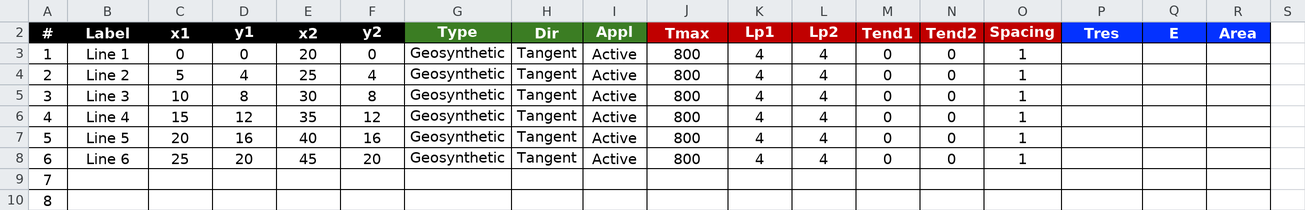
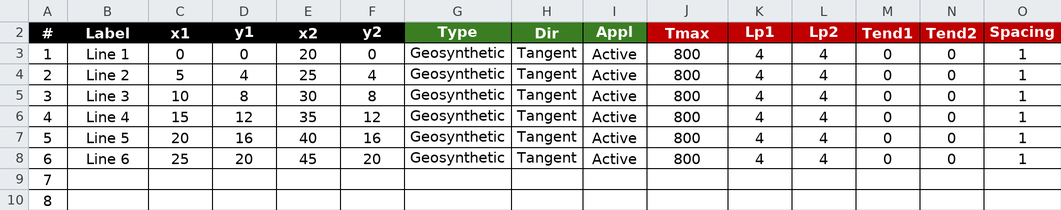
studio: the usage toggles govern the list view too, and LEM renders stop at LEM columns
The line editors' toggle bar filtered only the table view; the list
view's grouped form now hides non-enabled usage fields (whole groups
when every field hides), applied on lazy build as well. LEM-8/9's
reinforce and piles sheet renders crop before the FEM-only columns.

Claude-Session: https://claude.ai/code/session_01XjjT2aBxw8gY7EFdpoUcpj

diff --git a/studio/editors.py b/studio/editors.py
@@ -3962,6 +3962,7 @@ class _LineListView(QWidget):
         if tip:
             edit.setToolTip(tip)
         h.addWidget(edit, 1)
+        self._cells[key] = cell
         return cell
 
     @staticmethod
@@ -3978,6 +3979,8 @@ class _LineListView(QWidget):
         scroll.setWidgetResizable(True)
         body = QWidget()
         v = QVBoxLayout(body)
+        self._cells = {}
+        self._group_boxes = []
         for title, group_rows in self._groups:
             g = QGroupBox(title)
             gv = QVBoxLayout(g)
@@ -3990,6 +3993,7 @@ class _LineListView(QWidget):
                 else:
                     for k in keys:
                         gv.addWidget(self._cell(k))
+            self._group_boxes.append((g, [k for row in group_rows for k in row]))
             v.addWidget(g)
         v.addStretch(1)
         scroll.setWidget(body)
@@ -4000,6 +4004,17 @@ class _LineListView(QWidget):
         if driver is not None and hasattr(driver, "textChanged"):
             driver.textChanged.connect(lambda *_: self._relabel_dynamic())
         return scroll
+
+    def apply_usage_filter(self, enabled):
+        """Hide the form cells of fields whose usage tag is not enabled — the
+        list-view half of the toggle bar's contract, mirroring the table's
+        column filter. A group whose every field hides, hides whole."""
+        for key, cell in getattr(self, "_cells", {}).items():
+            f = self._field_by_key[key]
+            cell.setVisible((not f.usage) or (f.usage in enabled))
+        for g, keys in getattr(self, "_group_boxes", []):
+            g.setVisible(any(self._cells[k].isVisible() for k in keys
+                             if k in self._cells))
 
     def _relabel_dynamic(self):
         """Re-word every spacing-scaled label from the current Spacing/S entry: set ->
@@ -4276,8 +4291,10 @@ class _LineEditorDialog(QDialog):
         s = QSettings("XSlope", "XSlope Studio")
         for t, cb in self._toggles.items():
             s.setValue(f"editor_toggles/{self._title}/{t}", cb.isChecked())
-        if self._mode == "table" and self._table is not None:
+        if self._table is not None:
             self._table.apply_usage_filter(self._enabled_usage())
+        if self._list_view is not None:
+            self._list_view.apply_usage_filter(self._enabled_usage())
 
     # --- view switching --------------------------------------------------
     def _harvest(self):
@@ -4334,6 +4351,10 @@ class _LineEditorDialog(QDialog):
                 preview_caption=self._preview_caption, unit_labels=self._unit_labels,
                 dynamic_spec=self._dynamic_spec, preset_spec=self._preset_spec)
             self._list_lay.addWidget(self._list_view)
+            # A lazily built list view starts under whatever the toggle bar
+            # already says — the same filter the table is showing.
+            if getattr(self, "_toggles", None):
+                self._on_toggle()
         else:
             self._list_view.set_rows(self._rows)
 

diff --git a/tools/capture_tutorial_screenshots.py b/tools/capture_tutorial_screenshots.py
@@ -658,6 +658,21 @@ SHOTS["lem06_polygons"] = lem06_polygons
 LEM08 = os.path.join(REPO_ROOT, "docs/lem/files/xslope_reinforce.xlsx")
 
 
+
+
+def _lem_only(dlg):
+    """Untick every non-LEM usage toggle so the capture shows the LEM problem.
+
+    The owner's rule for the LEM tutorials: an LEM page's editor capture carries
+    no FEM or seepage columns. The toggles are real checkboxes, so unticking
+    them is the same action a reader takes, and the toggle bar in the capture
+    shows the state that produced it.
+    """
+    toggles = getattr(dlg, "_toggles", None) or {}
+    for tag, cb in toggles.items():
+        cb.setChecked(tag == "lem")
+    return dlg
+
 def lem08_reinforcement():
     """The reinforcement editor on the six geogrid layers, in its list view.
 
@@ -671,7 +686,7 @@ def lem08_reinforcement():
     from studio.editors import ReinforcementEditor
 
     dlg = ReinforcementEditor().build(_load(LEM08), None)
-    return _grab(_list_view(dlg, 1400), "lem08_studio_reinforcement.png")
+    return _grab(_list_view(_lem_only(dlg), 1400), "lem08_studio_reinforcement.png")
 
 
 SHOTS["lem08_reinforcement"] = lem08_reinforcement
@@ -697,7 +712,7 @@ def lem09_reinforcement():
     from studio.editors import ReinforcementEditor
 
     dlg = ReinforcementEditor().build(_load(LEM09), None)
-    return _grab(_list_view(dlg, 1400), "lem09_studio_reinforcement.png")
+    return _grab(_list_view(_lem_only(dlg), 1400), "lem09_studio_reinforcement.png")
 
 
 def lem09_piles():
@@ -710,7 +725,7 @@ def lem09_piles():
     from studio.editors import PilesEditor
 
     dlg = PilesEditor().build(_load(LEM09), None)
-    return _grab(_list_view(dlg, 1400), "lem09_studio_piles.png")
+    return _grab(_list_view(_lem_only(dlg), 1400), "lem09_studio_piles.png")
 
 
 SHOTS["lem09_reinforcement"] = lem09_reinforcement

diff --git a/tools/make_tutorial_figures.py b/tools/make_tutorial_figures.py
@@ -949,7 +949,8 @@ def lem08_sheets():
     render("lem08_sheet_mat.png", LEM08, "mat", rows=(10, 13), cols="A:O")
     render("lem08_sheet_profile.png", LEM08, "profile", rows=(1, 13), cols="A:H")
     render("lem08_sheet_dloads.png", LEM08, "dloads", rows=(4, 10), cols="A:H")
-    render("lem08_sheet_reinforce.png", LEM08, "reinforce", rows=(2, 10), cols="A:R")
+    # LEM problem: the render stops before the FEM-only columns (Tres, E, Area).
+    render("lem08_sheet_reinforce.png", LEM08, "reinforce", rows=(2, 10), cols="A:O")
     render("lem08_sheet_circles.png", LEM08, "circles", rows=(1, 5), cols="A:H")
 
 
@@ -1142,8 +1143,9 @@ def lem09_sheets():
     render("lem09_sheet_mat.png", LEM09, "mat", rows=(10, 13), cols="A:O")
     render("lem09_sheet_profile.png", LEM09, "profile", rows=(1, 14), cols="A:H")
     render("lem09_sheet_noncirc.png", LEM09, "non-circ", rows=(1, 6), cols="A:F")
-    render("lem09_sheet_reinforce.png", LEM09, "reinforce", rows=(2, 6), cols="A:R")
-    render("lem09_sheet_piles.png", LEM09, "piles", rows=(2, 6), cols="A:Q")
+    render("lem09_sheet_reinforce.png", LEM09, "reinforce", rows=(2, 6), cols="A:O")
+    # LEM problem: stop before the FEM-only pile columns (E, I, Area, Fixity).
+    render("lem09_sheet_piles.png", LEM09, "piles", rows=(2, 6), cols="A:M")
 
 
 def lem09_plots():
